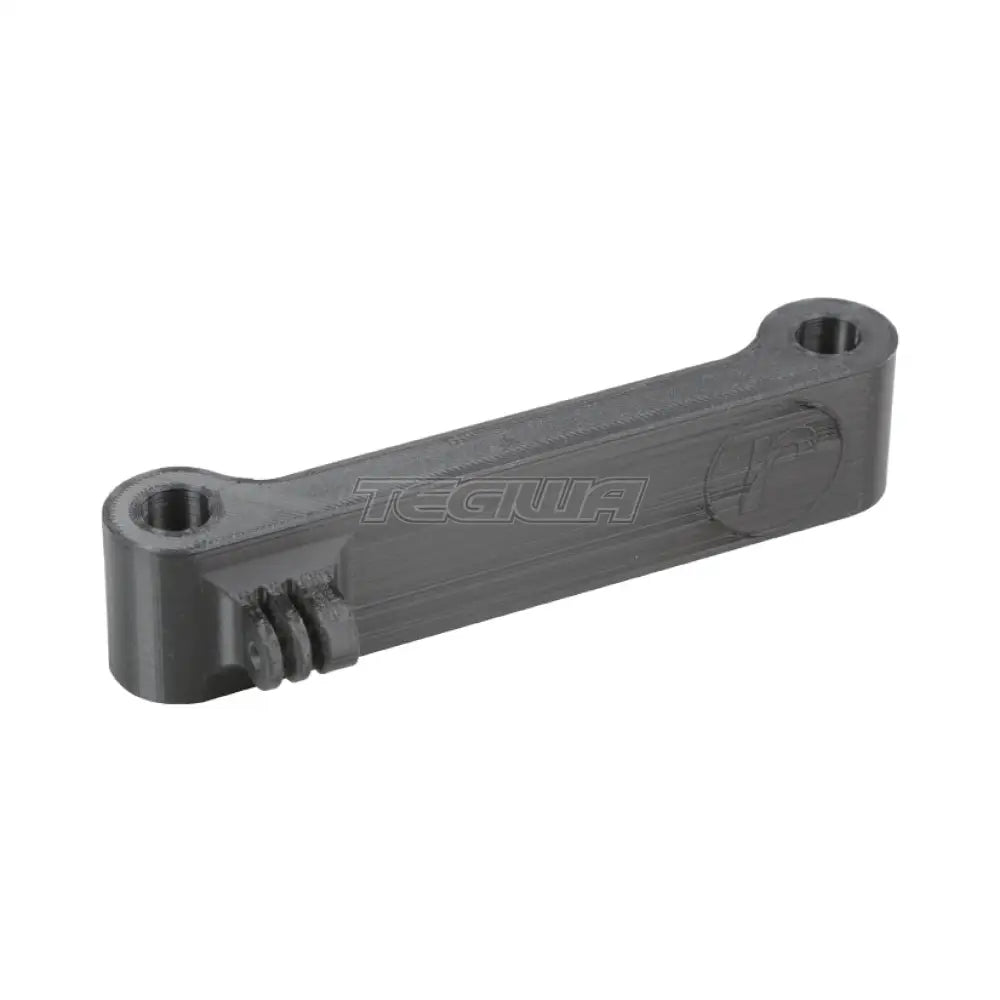
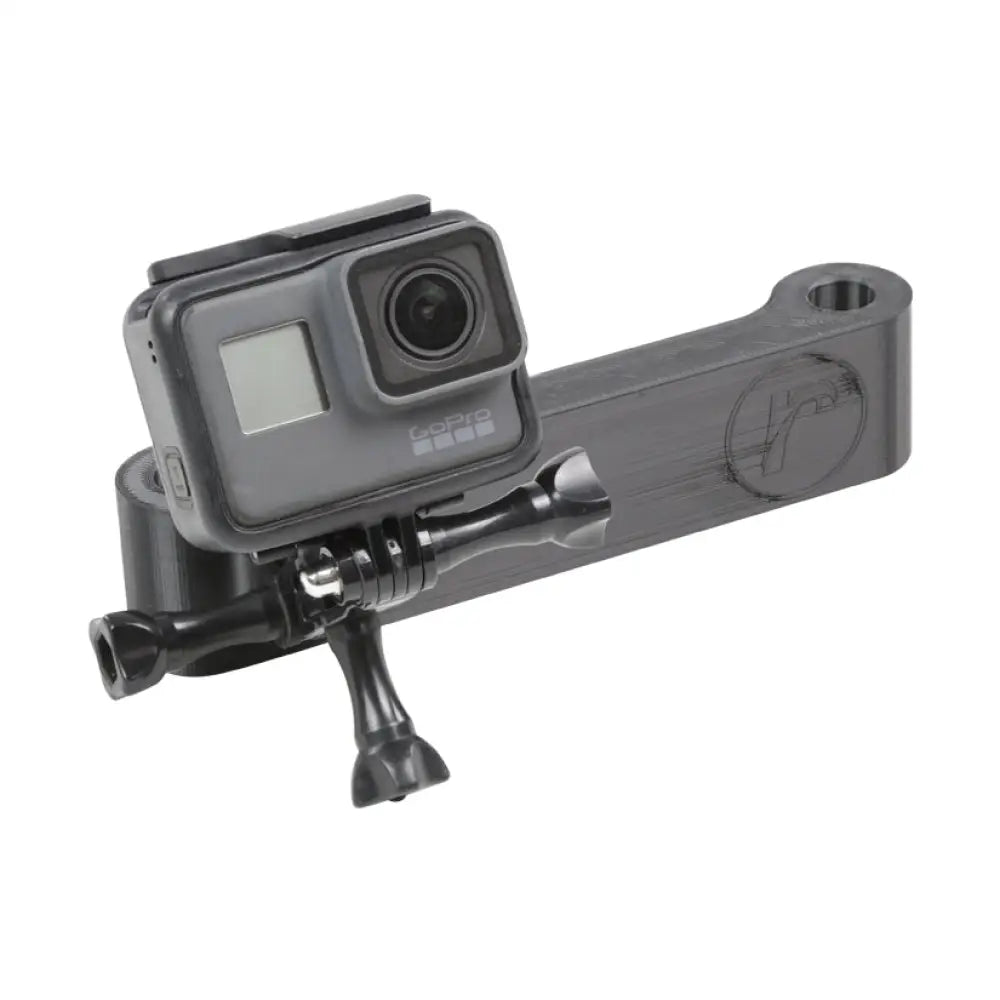
Improve catalogue search and replace watermarked media

Changed region(s): [[0.062, 0.186, 0.93, 0.806], [0.775, 0.403, 0.837, 0.465]]

diff --git a/assets/data.js b/assets/data.js
@@ -1036,7 +1036,7 @@ window.PROJX_DATA = {
       "height": 1800,
       "thumbSprite": true
     },
-    { "id": 51, "title": "Circuit race car", "alt": "Race car photographed at speed on circuit", "caption": "Race car photographed at speed on circuit", "vehicle": "Toyota 86 / GR86", "make": "Toyota", "category": "Circuit Racing", "tags": ["Toyota", "Circuit Racing", "Toyota 86 / GR86"], "full": "assets/media/uploads/projx-upload-51.webp", "width": 1279, "height": 1600 },
+    { "id": 51, "title": "Circuit race car", "alt": "Race car photographed at speed on circuit", "caption": "Race car photographed at speed on circuit", "vehicle": "Toyota 86 / GR86", "make": "Toyota", "category": "Circuit Racing", "tags": ["Toyota", "Circuit Racing", "Toyota 86 / GR86"], "full": "assets/media/uploads/projx-upload-51.webp", "width": 1279, "height": 1600, "showInGallery": false },
     { "id": 52, "title": "BMW circuit car", "alt": "BMW race car during a circuit session", "caption": "BMW race car during a circuit session", "vehicle": "BMW race car", "make": "BMW", "category": "Circuit Racing", "tags": ["BMW", "Circuit Racing", "BMW race car"], "full": "assets/media/uploads/projx-upload-52.webp", "width": 1600, "height": 898 },
     { "id": 53, "title": "GM LS cylinder head", "alt": "GM LS cylinder head and valvetrain assembly in the engine room", "caption": "GM LS cylinder head and valvetrain assembly in the engine room", "vehicle": "GM LS", "make": "GM", "category": "Engine Building", "tags": ["GM", "Engine Building", "GM LS"], "full": "assets/media/uploads/projx-upload-53.webp", "width": 2400, "height": 1350 },
     { "id": 54, "title": "GM LS long block", "alt": "GM LS long-block assembly prepared in the engine room", "caption": "GM LS long-block assembly prepared in the engine room", "vehicle": "GM LS", "make": "GM", "category": "Engine Building", "tags": ["GM", "Engine Building", "GM LS"], "full": "assets/media/uploads/projx-upload-54.webp", "width": 1350, "height": 2400 },
@@ -2399,36 +2399,6 @@ window.PROJX_DATA = {
       ],
       "images": [
         { "src": "assets/products/tegiwa/honda-civic-eg-ek-radiator.jpg", "width": 1000, "height": 1000, "alt": "Tegiwa aluminium alloy radiator for Honda Civic EG and EK", "altAr": "رديتر ألمنيوم Tegiwa لسيارات Honda Civic EG وEK" }
-      ]
-    },
-    {
-      "slug": "tegiwa-honda-k20a-oil-sump-baffle-kit",
-      "catalogType": "product",
-      "title": "Tegiwa Oil Sump Baffle Kit",
-      "titleAr": "طقم حواجز كرتير الزيت Tegiwa",
-      "summary": "Supplier-listed oil sump baffle kit for Honda Civic Type R EP3 and Integra Type R DC5 K20A applications. Exact engine and sump compatibility are confirmed before quotation.",
-      "summaryAr": "طقم حواجز كرتير زيت مدرج من المورد لتطبيقات Honda Civic Type R EP3 وIntegra Type R DC5 بمحرك K20A. يتم تأكيد توافق المحرك والكرتير قبل عرض السعر.",
-      "brand": "Tegiwa Motorsports",
-      "category": "Engine / Oiling",
-      "categoryAr": "المحرك / التزييت",
-      "sku": "T-4035007",
-      "mpn": "",
-      "quoteOnly": false,
-      "priceCurrency": "GBP",
-      "priceAmount": 88.94,
-      "priceVerifiedAt": "2026-08-03",
-      "priceNote": "Supplier RRP incl. VAT · checked 2026-08-03",
-      "priceNoteAr": "سعر التجزئة المقترح من المورد شامل ضريبة القيمة المضافة · تم الفحص 2026-08-03",
-      "status": "Supplier stock indicated — checked 2026-08-03",
-      "statusAr": "المورد يشير إلى توفر مخزون — تم الفحص 2026-08-03",
-      "checkedAt": "2026-08-03",
-      "fitmentStatus": "supplier-title-confirm",
-      "fitments": [
-        { "make": "Honda", "model": "Civic Type R", "generation": "EP3", "engines": ["K20A"] },
-        { "make": "Honda", "model": "Integra Type R", "generation": "DC5", "engines": ["K20A"] }
-      ],
-      "images": [
-        { "src": "assets/products/tegiwa/honda-k20-sump-baffle.jpg", "width": 1000, "height": 1000, "alt": "Tegiwa oil sump baffle kit for Honda K20A applications", "altAr": "طقم حواجز كرتير الزيت Tegiwa لتطبيقات Honda K20A" }
       ]
     }
   ],

diff --git a/assets/app.js b/assets/app.js
@@ -698,7 +698,7 @@
     const highResolutionHeroByRoute = {
       "/tuning": 60,
       "/parts": 68,
-      "/gallery": 51,
+      "/gallery": 52,
       "/reviews": 73,
       "/contact": 60,
       "/faq": 53,
@@ -1727,7 +1727,14 @@
       hideTegiwaSuggestions();
       return;
     }
-    listbox.innerHTML = entries.map((entry, index) => `<button id="tegiwa-suggestion-${index}" class="tegiwa-suggestion${entry.kind === "correction" ? " is-correction" : ""}" type="button" role="option" aria-selected="false" data-action="tegiwa-suggestion" data-tegiwa-suggestion data-query="${esc(entry.query)}"><span aria-hidden="true">${entry.kind === "correction" ? icons.check : icons.search}</span><strong>${esc(entry.label)}</strong>${entry.label !== entry.query && entry.kind !== "correction" ? `<small>${esc(entry.query)}</small>` : ""}</button>`).join("");
+    listbox.innerHTML = entries.map((entry, index) => {
+      const labelKey = entry.label.toLocaleLowerCase();
+      const queryKey = entry.query.toLocaleLowerCase();
+      const secondary = entry.kind !== "correction" && labelKey !== queryKey && !labelKey.startsWith(queryKey)
+        ? `<small>${esc(entry.query)}</small>`
+        : "";
+      return `<button id="tegiwa-suggestion-${index}" class="tegiwa-suggestion${entry.kind === "correction" ? " is-correction" : ""}" type="button" role="option" aria-selected="false" data-action="tegiwa-suggestion" data-tegiwa-suggestion data-query="${esc(entry.query)}"><span aria-hidden="true">${entry.kind === "correction" ? icons.check : icons.search}</span><strong>${esc(entry.label)}</strong>${secondary}</button>`;
+    }).join("");
     listbox.hidden = false;
     input.setAttribute("aria-expanded", "true");
     input.removeAttribute("aria-activedescendant");
@@ -1789,9 +1796,15 @@
       setTegiwaSuggestionActive(start);
       return true;
     }
-    if (event.key === "Enter" && state.tegiwaCatalog.activeSuggestion >= 0) {
+    if (event.key === "Enter") {
       event.preventDefault();
-      chooseTegiwaSuggestion(options[state.tegiwaCatalog.activeSuggestion]);
+      if (state.tegiwaCatalog.activeSuggestion >= 0) {
+        chooseTegiwaSuggestion(options[state.tegiwaCatalog.activeSuggestion]);
+      } else {
+        hideTegiwaSuggestions();
+        const form = input.closest("[data-tegiwa-search]");
+        if (form?.reportValidity()) form.requestSubmit();
+      }
       return true;
     }
     if (event.key === "Tab") hideTegiwaSuggestions();
